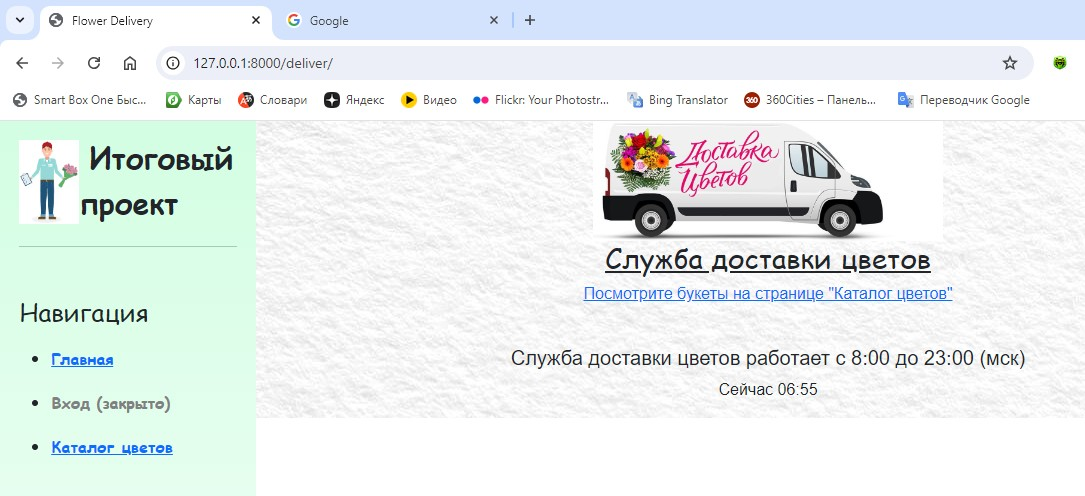
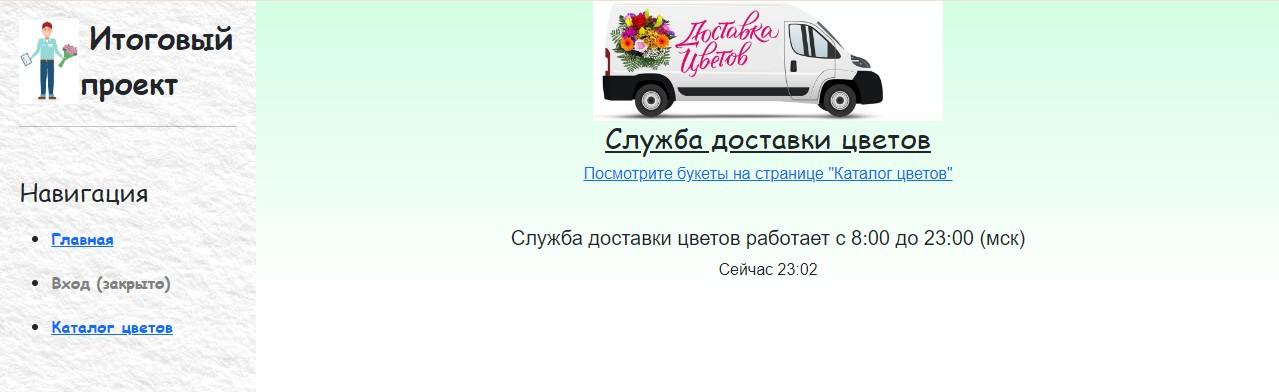
Загрузка файлов после доработки

diff --git a/flower_delivery/delivery/static/delivery/css/delivery.css b/flower_delivery/delivery/static/delivery/css/delivery.css
@@ -9,7 +9,7 @@ aside {
     width: 20%;
     padding: 1.5%;
     height: 100vh;
-    background: linear-gradient(to bottom, #D3FEE3, white);
+    background: url('../img/tekstura-akvarelnoi-bumagi1.jpg');
 }
 aside img {
     width: 60px;
@@ -35,7 +35,7 @@ aside li:hover, aside a:hover {
     transform: scale(1.15);
 }
 main {
-    background-image: url('../img/tekstura-akvarelnoi-bumagi1.jpg');
+    background-image: linear-gradient(to bottom, #D3FEE3, white);
     background-repeat: repeat-y;
     font-family: Arial, Helvetica, sans-serif;
     text-align: center;

diff --git a/flower_delivery/delivery/views.py b/flower_delivery/delivery/views.py
@@ -6,6 +6,7 @@ from django.utils import timezone
 from .models import User
 from .forms import UserRegistrationForm, LoginByEmailForm, LoginForm, DeliveryAddressForm
 from .telebot.message_to_bot import send_message
+from datetime import datetime
 
 TIME = (8, 23)
 
@@ -45,7 +46,11 @@ def registration_view(request):
         form = UserRegistrationForm(request.POST)  # Инициализация формы
         if form.is_valid():  # Проверка формы
             form.save()  # Сохранение формы
-            messages.success(request, 'Пользователь успешно зарегистрирован!')
+            email = form.cleaned_data['email']  # Получить email из формы
+            buyer = get_object_or_404(User, email=email)  # Поиск пользователя по email
+            request.session['email'] = email  # запомнить email в сессии
+            request.session['buyer'] = buyer.name  # запомнить имя пользователя в сессии
+            # messages.success(request, 'Пользователь успешно зарегистрирован!')
             return redirect('catalog')  # Перенаправление на страницу каталога
     else:
         form = UserRegistrationForm()  # Инициализация формы
@@ -62,7 +67,7 @@ def entrance_view(request):
             buyer = get_object_or_404(User, email=email)  # Поиск пользователя по email
             request.session['email'] = email  # запомнить email в сессии
             request.session['buyer'] = buyer.name  # запомнить имя пользователя в сессии
-            messages.success(request, f'{buyer.name}, Вы успешно вошли в систему!')
+            # messages.success(request, f'{buyer.name}, Вы успешно вошли в систему!')
             return redirect('catalog')  # Перенаправление на страницу каталога
     else:
         form = LoginForm()  # Инициализация формы
@@ -151,16 +156,20 @@ def order_view(request):
         form = DeliveryAddressForm(request.POST)
         if form.is_valid():
             address = form.cleaned_data['address']
+            text = form.cleaned_data['text']
+            formatted_date_time = datetime.now().strftime("%H:%M %d.%m.%Y")
+
             # Здесь можно создать заказ и сохранить его в БД
             order = Order.objects.create(user=user)
             order.products.set(selected_products)
             order.save()
+            text_for_bot = (f'{formatted_date_time} |{order} | Список букетов: {selected_products_titles} | '
+                   f'Сумма заказа: {total_price}₽ | Адрес доставки: {address} | ')
 
-            send_message(f'{order} | '
-                  f'Почта: {email} | '
-                  f'Список букетов: {selected_products_titles} | '
-                  f'Сумма заказа: {total_price}₽ | '
-                  f'Адрес доставки: {address}')
+            if text != '':
+                text_for_bot += f'{text}'
+
+            send_message(text_for_bot)
 
             local_time = timezone.now().astimezone(pytz.timezone('Europe/Moscow'))
             global TIME

diff --git a/flower_delivery/delivery/forms.py b/flower_delivery/delivery/forms.py
@@ -39,3 +39,8 @@ class DeliveryAddressForm(forms.Form):
         max_length=255,
         widget=forms.TextInput(attrs={'class': 'form-control', 'placeholder': 'Введите адрес доставки'})
     )
+    text = forms.CharField(
+        label='Комментарий к заказу',
+        required=False,
+        widget=forms.Textarea(attrs={'class': 'form-control', 'placeholder': 'Введите комментарий (необязательно)', 'rows': 3})
+    )

diff --git a/README.md b/README.md
@@ -47,19 +47,19 @@
 
 | User                                       |
 |--------------------------------------------|
-| <strong>ID</strong>                        |
+| <strong>id</strong>                        |
 | <strong>name</strong> "Имя"                |
 | <strong>emali</strong> "Электронная почта" |
 
 | Product                        |
 |--------------------------------|
-| <strong>ID</strong>                        |
+| <strong>id</strong>            |
 | <strong>title</strong> "Букет" |
 | <strong>pice</strong> "Цена"   |
 
 | Order                                                         |
 |---------------------------------------------------------------|
-| <strong>ID</strong>                        |
+| <strong>id</strong>                                           |
 | <strong>user</strong> "Покупатель" [ForeignKey(User)]         |
 | <strong>products</strong> "Букеты" [ManyToManyField(Product)] |
 
@@ -68,18 +68,19 @@
 
 #### Домашняя страница в нерабочее время
 ![shot0.jpg](shot0.jpg)
-#### Домашняя страница в рабочее время
+#### Домашняя страница в рабочее время до входа пользователя
 ![shot1.jpg](shot1.jpg)
+#### Домашняя страница в рабочее время после входа пользователя
 ![shot2.jpg](shot2.jpg)
 #### Страница регистрации
 ![shot4.jpg](shot4.jpg)
 #### Страница входа
 ![shot3.jpg](shot3.jpg)
-#### Страница католога в режиме просмотра
+#### Страница католога в режиме просмотра в нерабочее время и до входа пользователя
 ![shot6.jpg](shot6.jpg)
-#### Страница католога в режиме выбора для заказа
+#### Страница католога в режиме выбора для заказа в рабочее время и после входа пользователя
 ![shot5.jpg](shot5.jpg)
 #### Страница оформления заказа
 ![shot7.jpg](shot7.jpg)
-#### Чат Telegram бота при поступлении заказа
-![shot8.jpg](shot8.jpg)
+#### Чат Telegram бота при поступлении заказа в магазин
+
